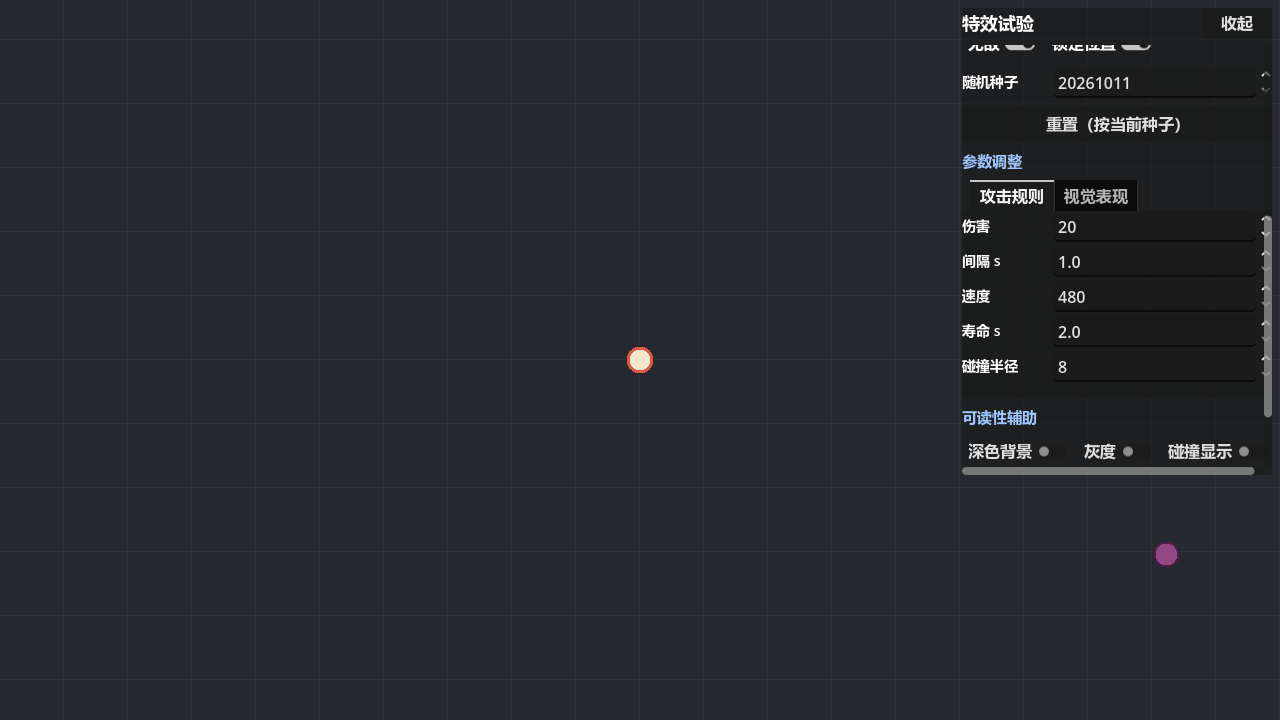
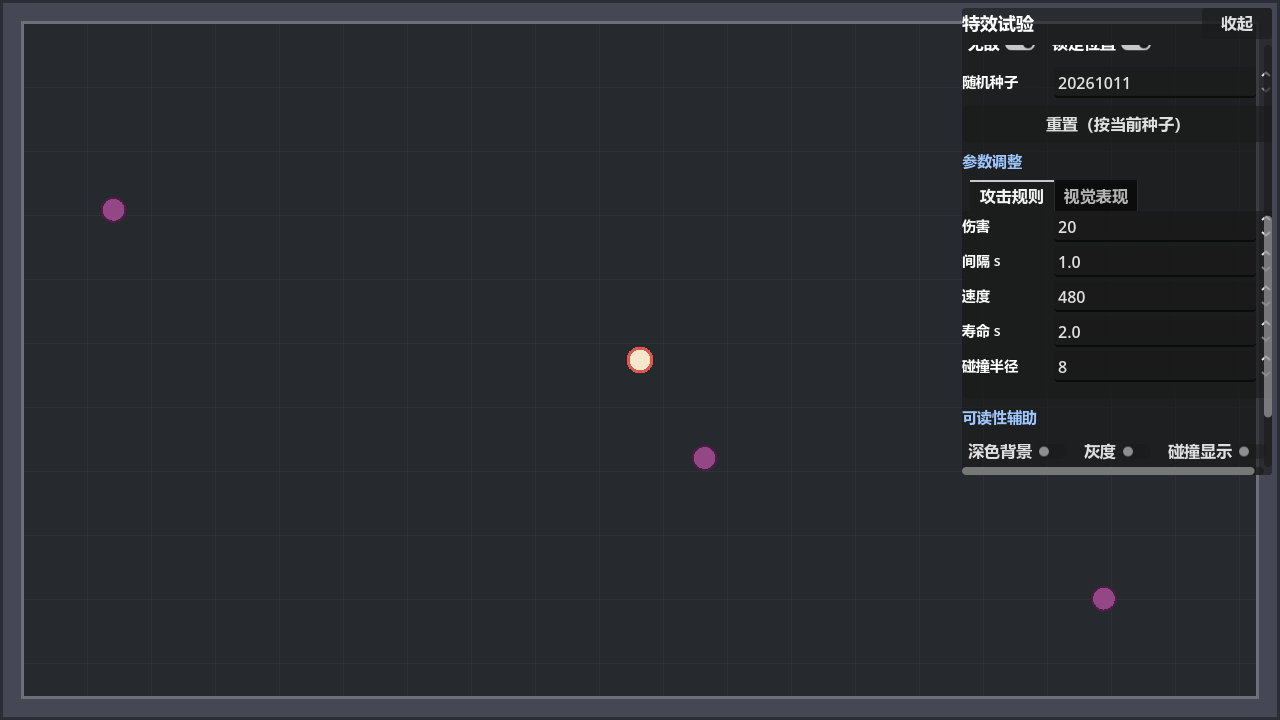
封闭竞技场改版（Brotato 式固定场地）：全场可见四面墙、玩家撞墙钳制、怪物墙内边缘刷怪、弹体撞墙消散、相机固定场心；走查移动计时改真实秒数防高刷漂移并新增贴墙断言，headless 回归增至 123 项

diff --git a/docs/开发方案_V0.1.md b/docs/开发方案_V0.1.md
@@ -397,7 +397,7 @@ func randi_range(a, b) -> int: return game_rng.randi_range(a, b)
 
 ```
 Arena (Node2D, PROCESS_MODE_PAUSABLE)
-├── Ground (Node2D)              # 平铺地面，按镜头范围铺展/回收
+├── Ground (Node2D)              # 封闭竞技场：固定场地 + 四面墙（2026-10 改版，原无限平铺）
 ├── Entities (Node2D)            # 敌人、玩家、经验物
 │   ├── Player (player.tscn)
 │   └── (enemy.tscn / exp_gem.tscn 动态挂载)
@@ -443,8 +443,9 @@ Main
 
 - 输入向量 = 各方向按键组合，`normalized()` 后乘速度；斜向与水平同速（A01 由归一化天然保证）。
 - 无输入立即停（无惯性）；位移 = 速度 × delta（delta 来自受 time_scale 影响的 `_process`，慢放自动生效）。
-- 相机每帧 `position = player.position`（可留平滑系数开关）；地面按相机可视矩形动态补铺。
-- 刷怪取相机 `get_viewport_rect()` 世界范围，四边外扩 ≥64px 随机取点（设计文档 5.2）。
+- 相机固定于场地中心（封闭竞技场，全场可见；2026-10 用户改版决策，原为每帧跟随玩家）。
+- 刷怪改四面墙内侧随机取点（离墙 24~96px，Brotato 式）；1700px 超距回收保留作安全网（正常对局不会触发）。
+- 玩家位移按内区矩形（半场 640x360 - 墙厚 24 - 实体半径）钳制；弹体越内区即消散。
 
 ### 5.2 刷怪器（systems/spawner.gd）
 
